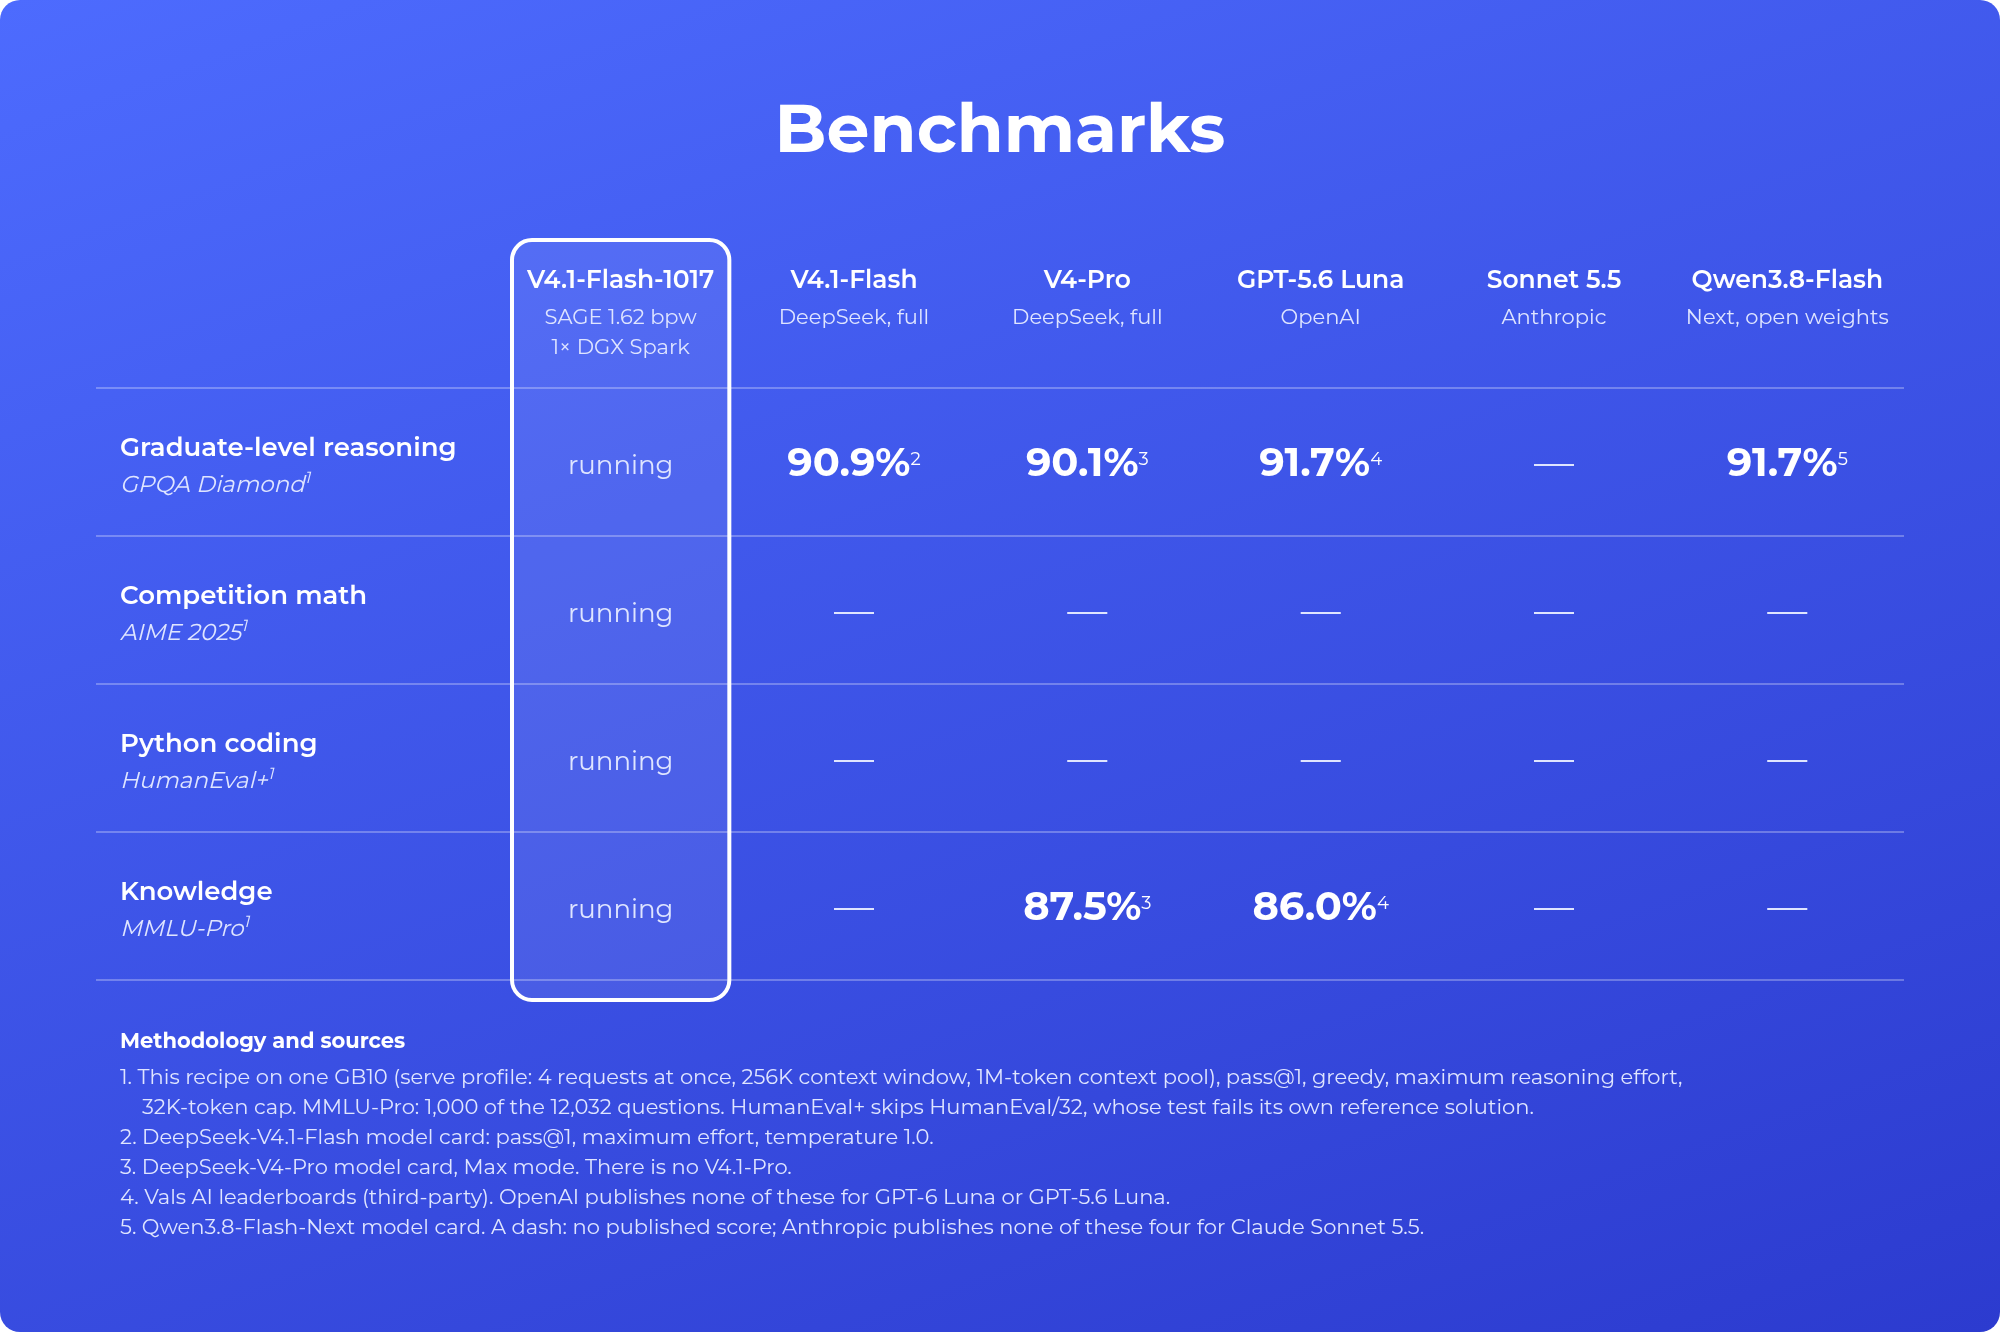
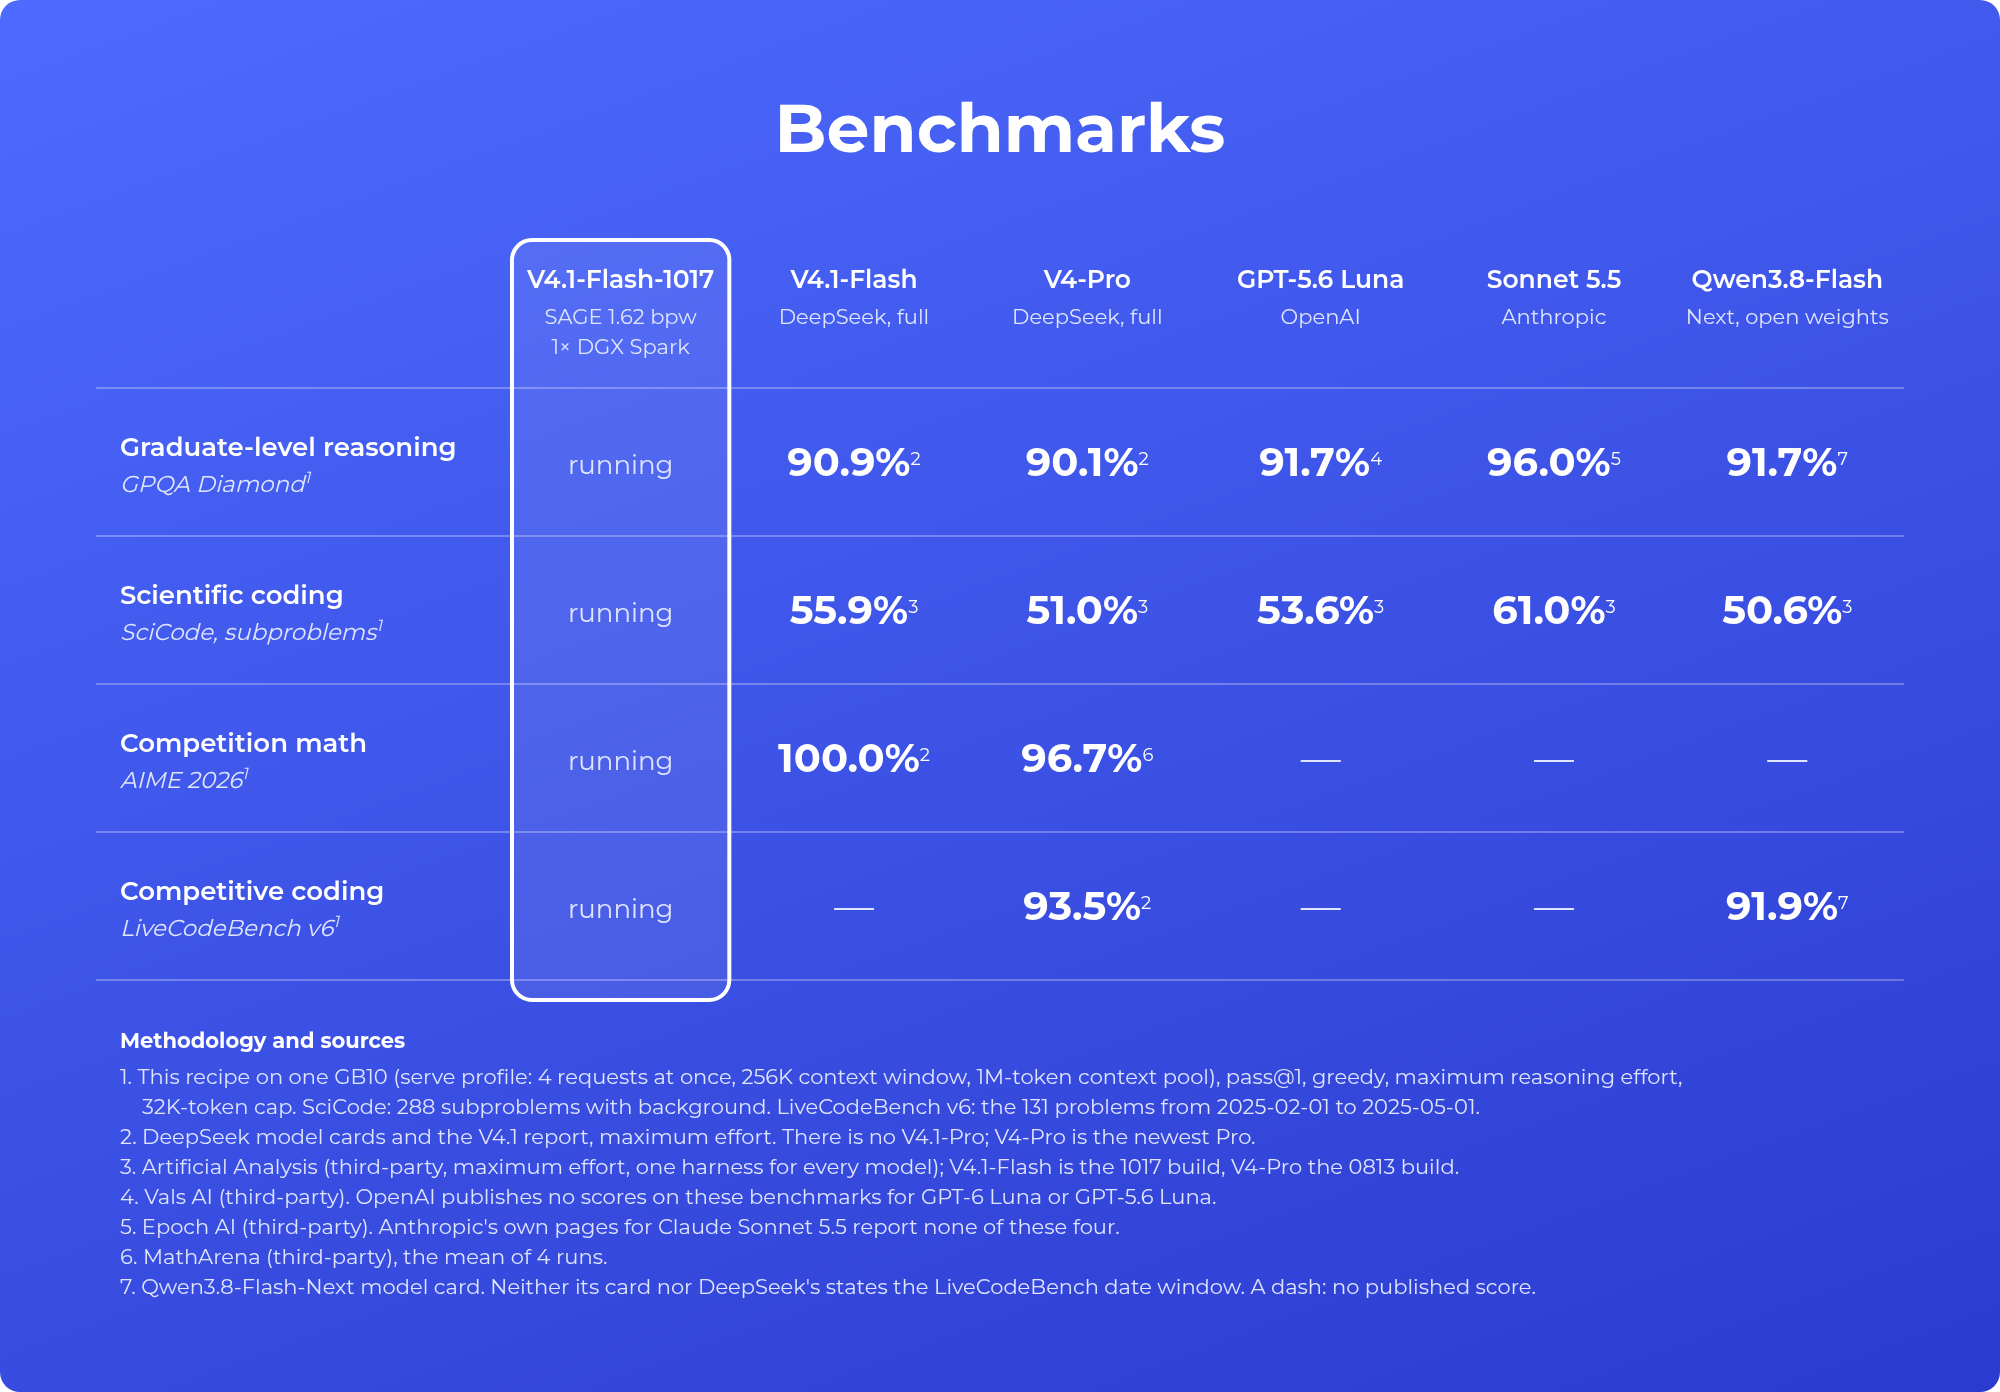
Benchmark table: GPQA Diamond, SciCode, AIME 2026 and LiveCodeBench v6, the runnable ones with published scores

diff --git a/README.md b/README.md
@@ -34,7 +34,7 @@ Known limits:
 
 ## Benchmarks
 
-<p align="center"><img src="docs/assets/benchmarks.png" alt="Benchmarks table: this quant's GPQA Diamond, AIME 2025, HumanEval+ and MMLU-Pro scores are being measured. Published: GPQA Diamond 90.9% DeepSeek-V4.1-Flash, 90.1% V4-Pro, 91.7% GPT-5.6 Luna (Vals), 91.7% Qwen3.8-Flash-Next; MMLU-Pro 87.5% V4-Pro, 86.0% GPT-5.6 Luna (Vals); no published AIME 2025 or HumanEval+ scores for these models." width="100%"></p>
+<p align="center"><img src="docs/assets/benchmarks.png" alt="Benchmarks table, this quant's scores being measured. Published: GPQA Diamond 90.9% V4.1-Flash, 90.1% V4-Pro, 91.7% GPT-5.6 Luna (Vals), 96.0% Claude Sonnet 5.5 (Epoch), 91.7% Qwen3.8-Flash-Next; SciCode (Artificial Analysis) 55.9%, 51.0%, 53.6%, 61.0%, 50.6%; AIME 2026 100% V4.1-Flash, 96.7% V4-Pro (MathArena); LiveCodeBench v6 93.5% V4-Pro, 91.9% Qwen3.8-Flash-Next." width="100%"></p>
 
 ## Running it
 
